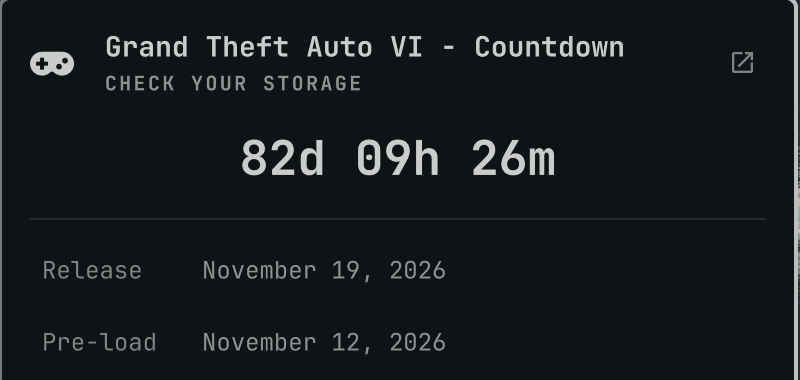
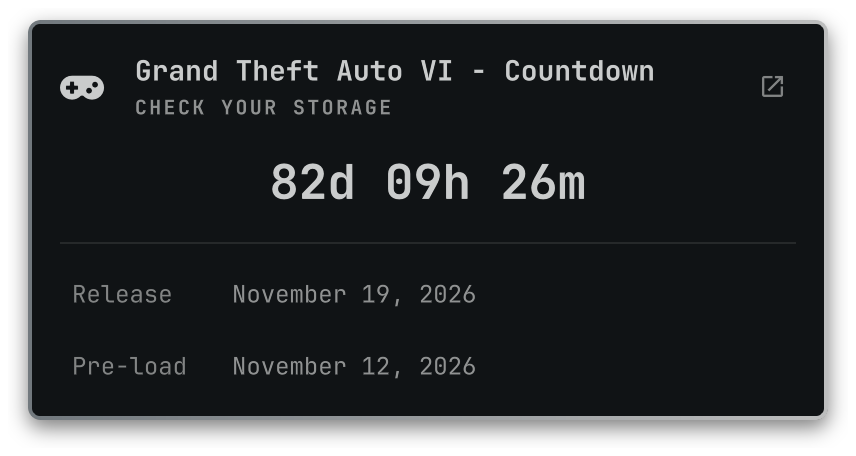
docs: cut the assets to the card border with rounded alpha corners

diff --git a/README.md b/README.md
@@ -8,7 +8,7 @@ page, and one reminder a day. It is pure date arithmetic — no daemon, no helpe
 no network, and nothing to read from the system.
 
 <p align="center">
-  <img src="preview.png" width="400"
+  <img src="preview.png" width="428"
        alt="The GTA VI Countdown panel open in the Omarchy bar, titled Grand Theft Auto VI - Countdown, reading 82d 09h 26m above the release date of November 19, 2026 and the pre-load date of November 12, 2026">
 </p>
 
@@ -113,27 +113,27 @@ stops speaking.
 
 An ordinary morning: the count, then a line from the tier.
 
-<img src="docs/notification-daily.png" width="378"
+<img src="docs/notification-daily.png" width="408"
      alt="A notification headed Grand Theft Auto VI - Countdown, reading 83 days, A real countdown now, with a controller glyph">
 
 A month out, where the practical nudges live.
 
-<img src="docs/notification-milestone.png" width="378"
+<img src="docs/notification-milestone.png" width="408"
      alt="A notification headed Grand Theft Auto VI - Countdown, reading One month to go, Weeks not months">
 
 Pre-load day, one week ahead of launch.
 
-<img src="docs/notification-preload.png" width="378"
+<img src="docs/notification-preload.png" width="408"
      alt="A notification headed Grand Theft Auto VI - Countdown, reading Pre-load is open, One week One week">
 
 The last two days come through as critical, so they stay on screen.
 
-<img src="docs/notification-tomorrow.png" width="378"
+<img src="docs/notification-tomorrow.png" width="408"
      alt="A notification headed Grand Theft Auto VI - Countdown, reading Tomorrow, Clear your calendar">
 
 And then it is done.
 
-<img src="docs/notification-release.png" width="378"
+<img src="docs/notification-release.png" width="408"
      alt="A notification headed Grand Theft Auto VI - Countdown, reading Out now, Why are you still here">
 
 </details>
